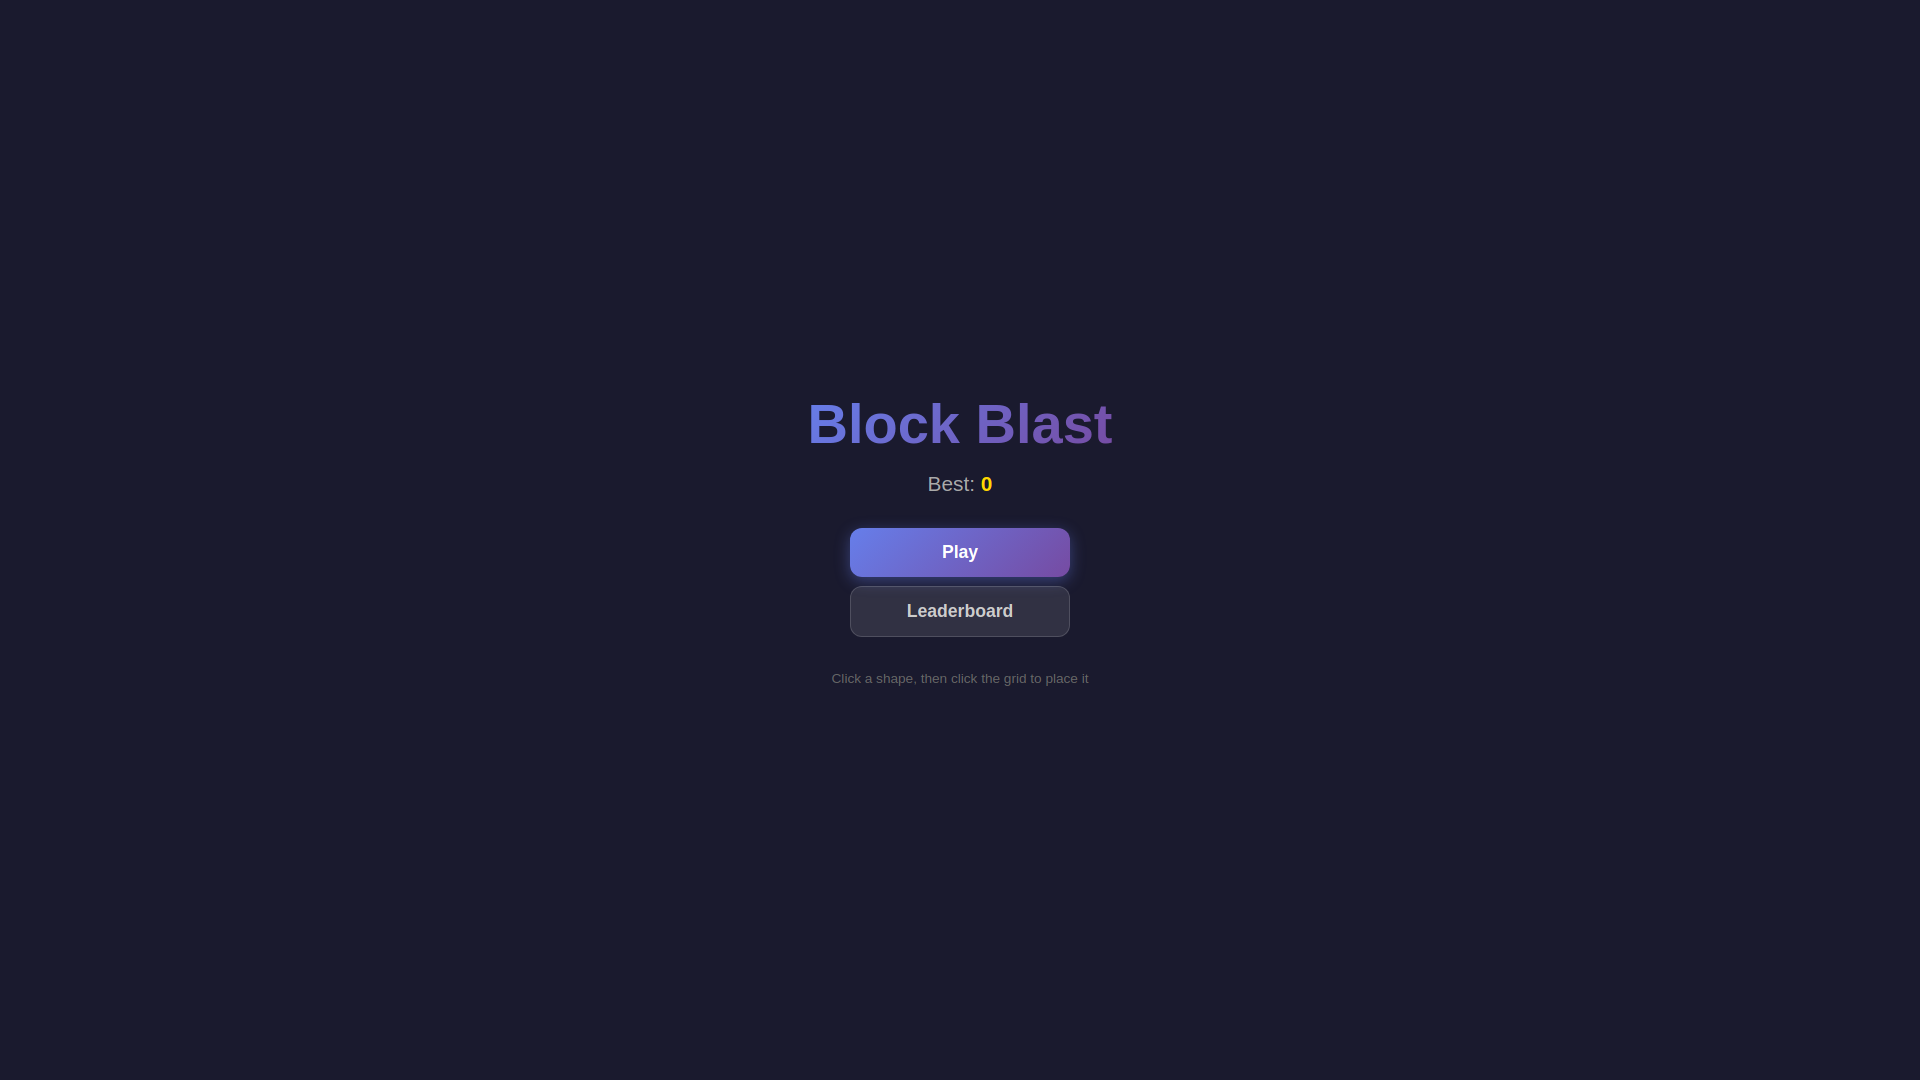
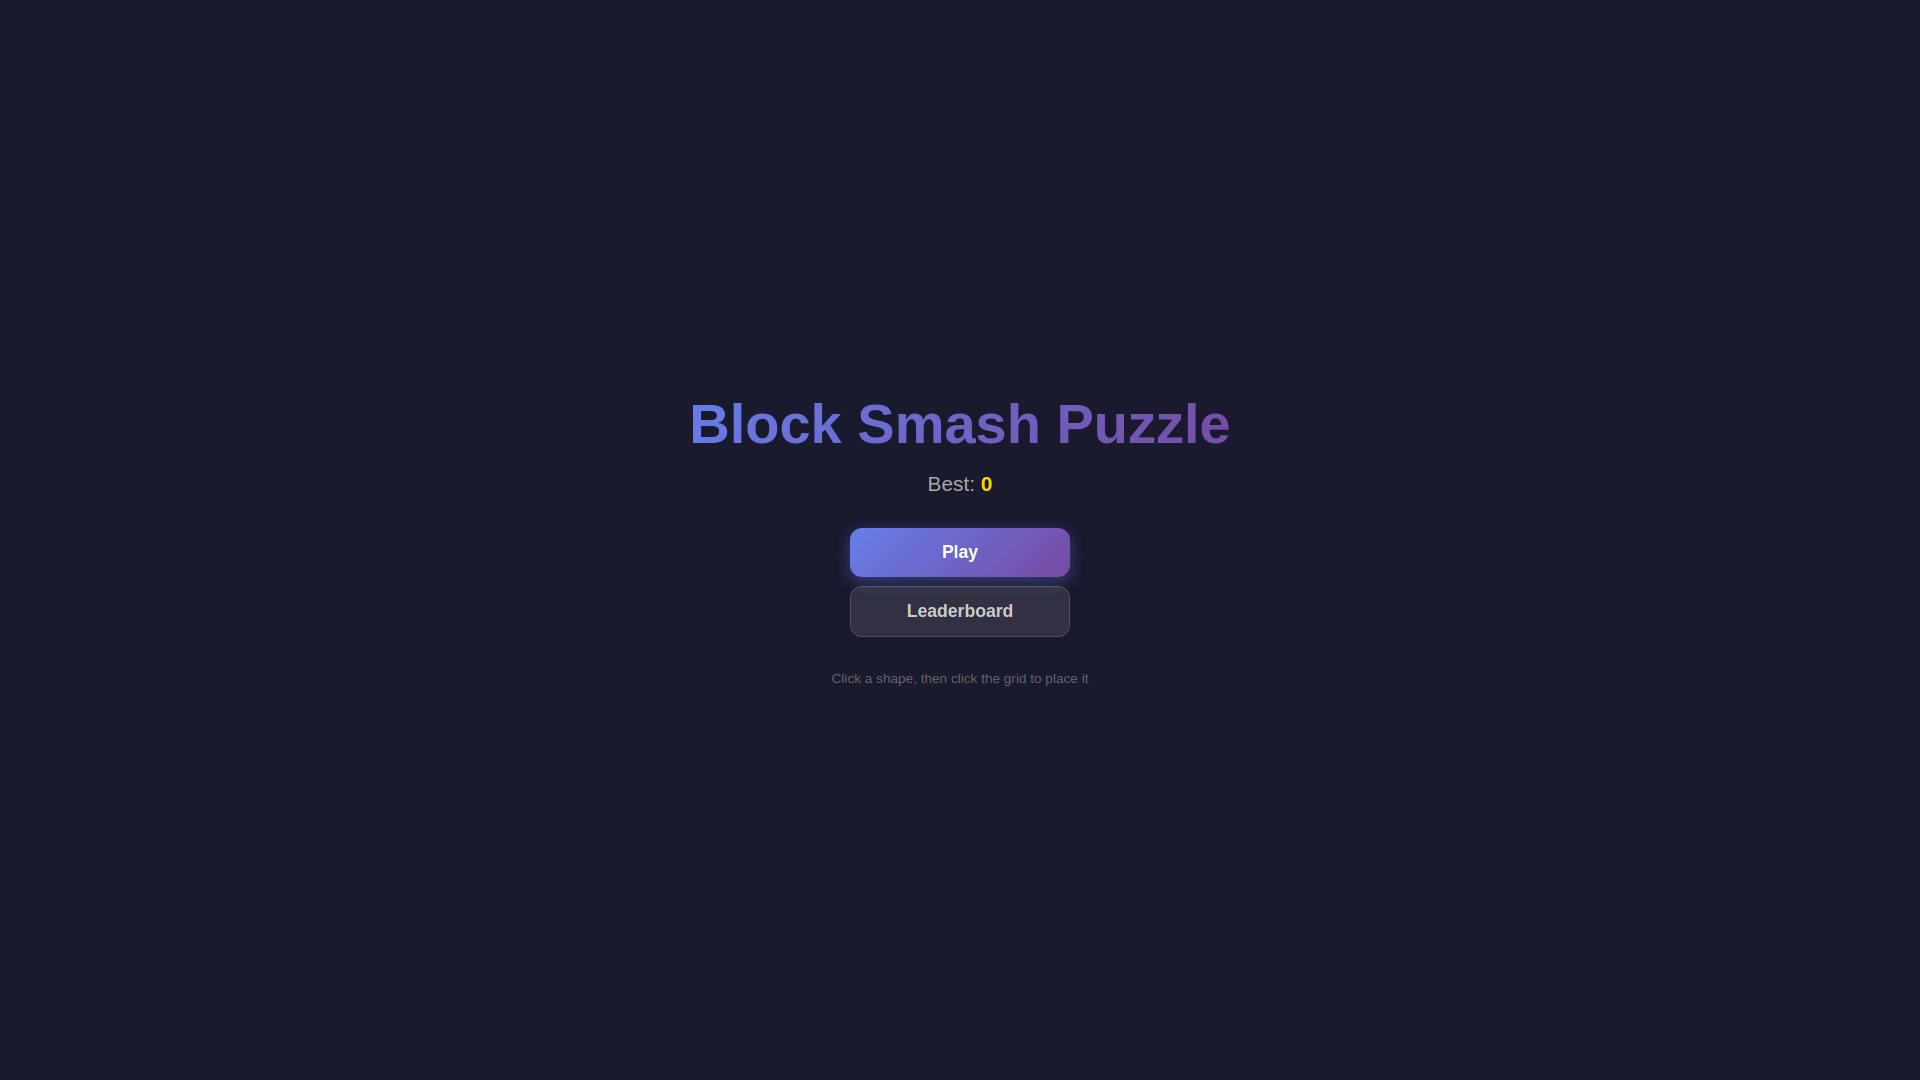
feat: rename game to Block Smash Puzzle — update code, assets, and store listing

Changed region(s): [[0.3438, 0.3667, 0.6562, 0.4278]]

diff --git a/index.html b/index.html
@@ -3,7 +3,7 @@
 <head>
     <meta charset="UTF-8">
     <meta name="viewport" content="width=device-width, initial-scale=1.0, maximum-scale=1.0, user-scalable=no">
-    <title>Block Blast</title>
+    <title>Block Smash Puzzle</title>
     <!-- Yandex Games SDK -->
     <script src="/sdk.js"></script>
     <link rel="stylesheet" href="style.css">
@@ -13,7 +13,7 @@
         <!-- Loading Screen -->
         <div id="loading-screen" class="screen active">
             <div class="loading-content">
-                <h1 id="loading-title">Block Blast</h1>
+                <h1 id="loading-title">Block Smash Puzzle</h1>
                 <div class="loader"></div>
                 <p id="loading-text">Loading...</p>
             </div>
@@ -22,7 +22,7 @@
         <!-- Menu Screen -->
         <div id="menu-screen" class="screen">
             <div class="menu-content">
-                <h1 class="game-title">Block Blast</h1>
+                <h1 class="game-title">Block Smash Puzzle</h1>
                 <div class="best-score-display">
                     <span id="menu-best-label">Best</span>: <span id="menu-best-score">0</span>
                 </div>

diff --git a/game.js b/game.js
@@ -1,4 +1,4 @@
-/* ===== Block Blast — Yandex Games ===== */
+/* ===== Block Smash Puzzle — Yandex Games ===== */
 
 // ── Localization ──
 const LANG = {

diff --git a/README.md b/README.md
@@ -1,10 +1,10 @@
-# Block Blast — Yandex Games
+# Block Smash Puzzle — Yandex Games
 
 Puzzle game for the [Yandex Games](https://yandex.ru/games) platform.
 
 ## Game Description
 
-Block Blast is an addictive grid-based puzzle game. Place shapes on the 8x8 grid to fill complete rows or columns and clear them for points. The game gets progressively harder as your score increases.
+Block Smash Puzzle is an addictive grid-based puzzle game. Place shapes on the 8x8 grid to fill complete rows or columns and clear them for points. The game gets progressively harder as your score increases.
 
 ## Features
 
